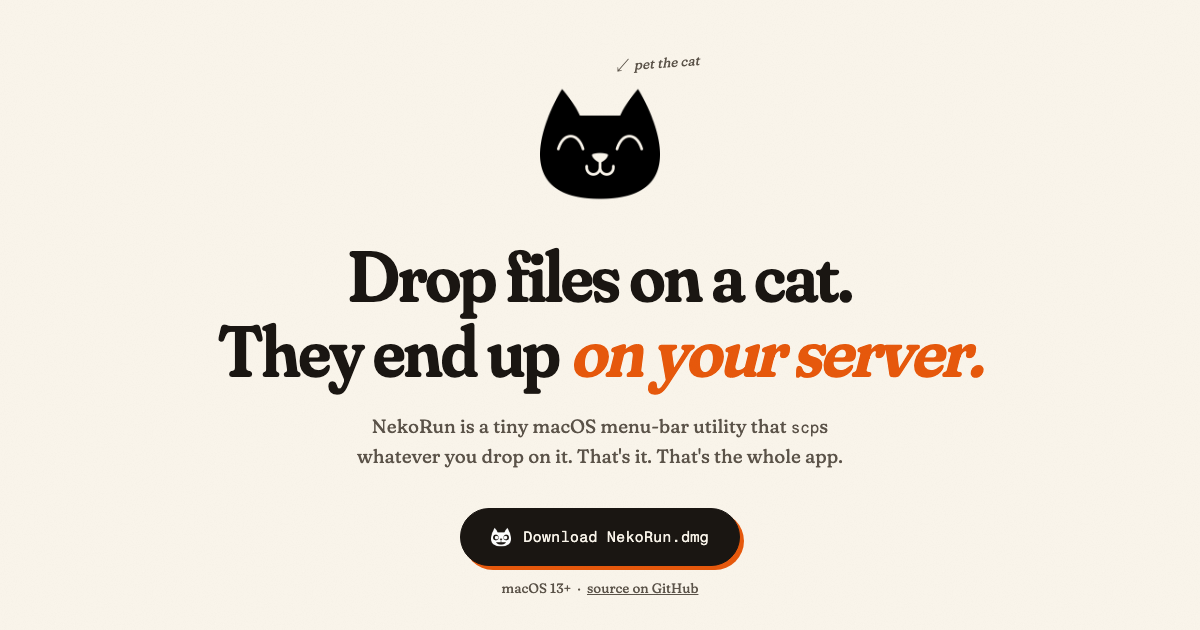
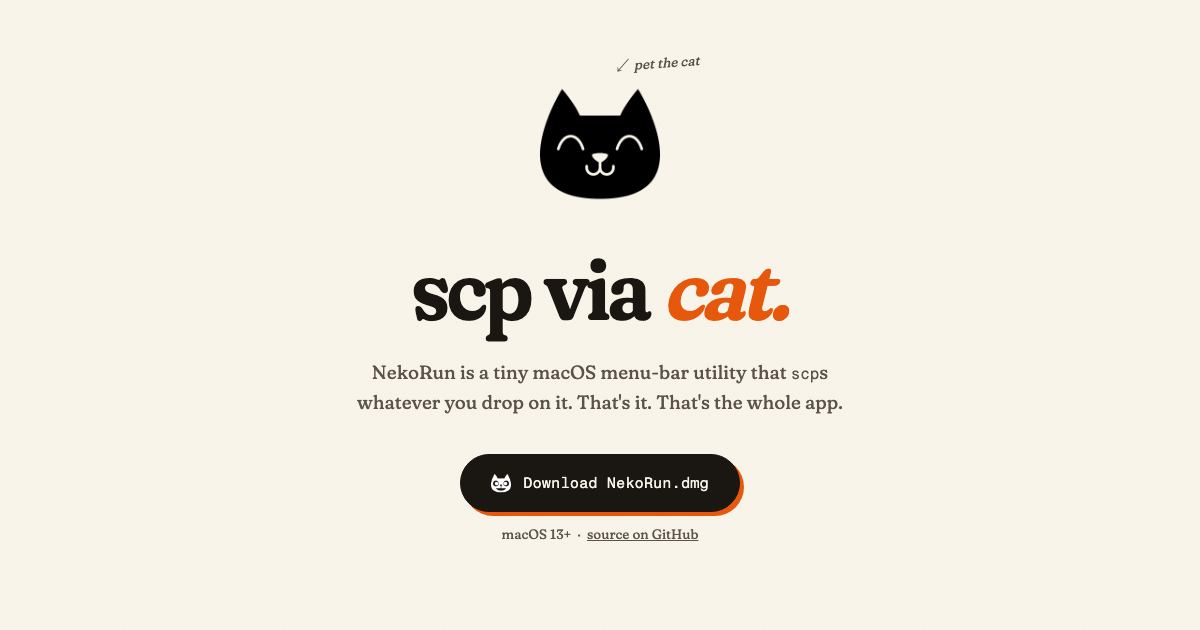
New headline: scp via cat

Changed region(s): [[0.185, 0.3921, 0.8325, 0.9651]]

diff --git a/docs/index.html b/docs/index.html
@@ -17,7 +17,7 @@
 <meta property="og:image" content="https://nekorun.troubledyouth.org/assets/og-card.png">
 <meta property="og:image:width" content="1200">
 <meta property="og:image:height" content="630">
-<meta property="og:image:alt" content="A black cartoon cat above the headline: Drop files on a cat. They end up on your server.">
+<meta property="og:image:alt" content="A black cartoon cat above the headline: scp via cat.">
 
 <meta name="twitter:card" content="summary_large_image">
 <meta name="twitter:title" content="NekoRun — drop files on a cat">
@@ -133,7 +133,7 @@
   @media (max-width: 620px) { .hero-cat-wrap .hint { display: none; } }
 
   h1 {
-    font-size: clamp(40px, 7.5vw, 72px);
+    font-size: clamp(52px, 9vw, 92px);
     font-weight: 620;
     font-variation-settings: "SOFT" 100, "opsz" 144;
     line-height: 1.04;
@@ -415,7 +415,7 @@
       <img class="hero-cat js-cat" src="assets/cat.png" alt="The NekoRun cat. Sleepy until you hover.">
       <span class="hint">pet the cat</span>
     </div>
-    <h1>Drop files on a cat.<br>They end up <em>on your server.</em></h1>
+    <h1>scp via <em>cat.</em></h1>
     <p class="sub">NekoRun is a tiny macOS menu-bar utility that <span class="mono">scp</span>s whatever you drop on it. That's it. That's the whole app.</p>
     <div class="dl-row">
       <a class="dl-btn" href="https://github.com/rib3ye/NekoRun/releases/latest/download/NekoRun-1.0.dmg">